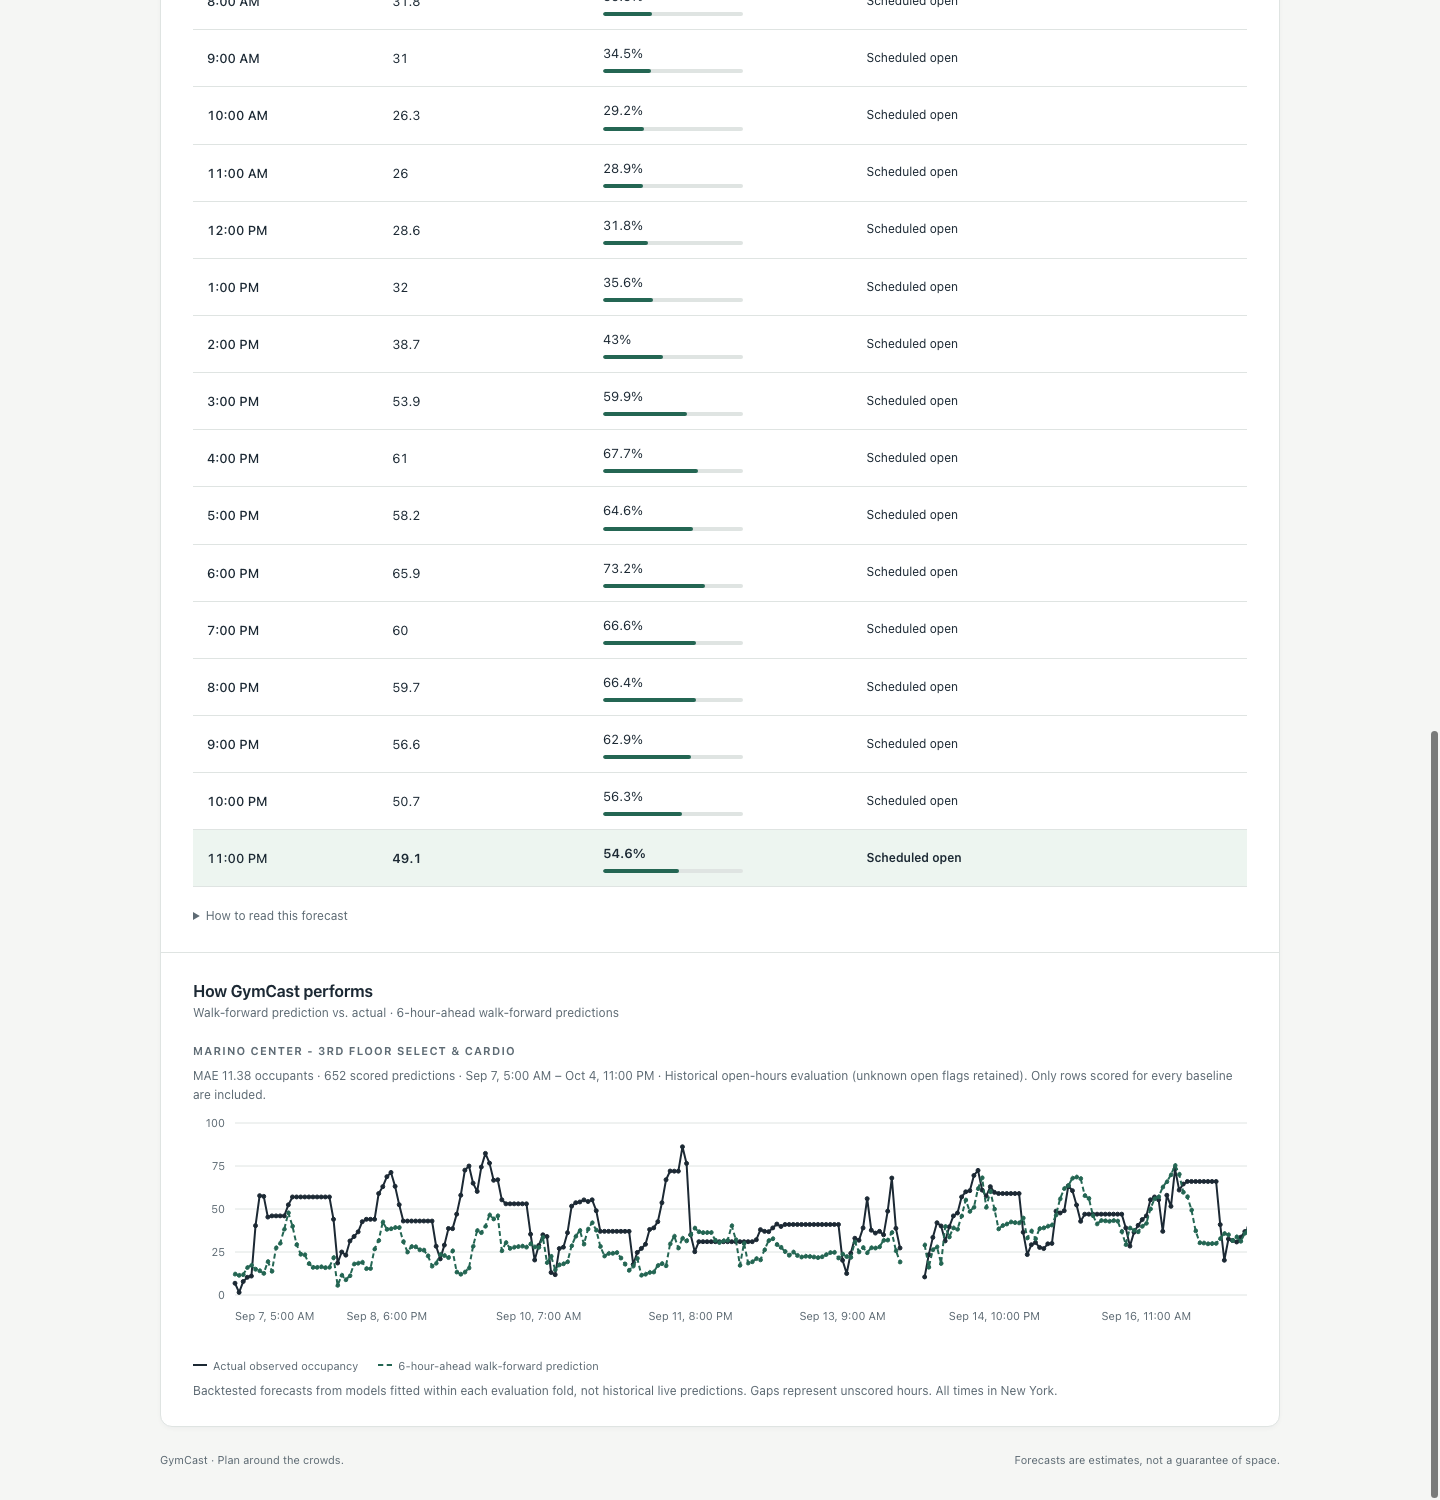
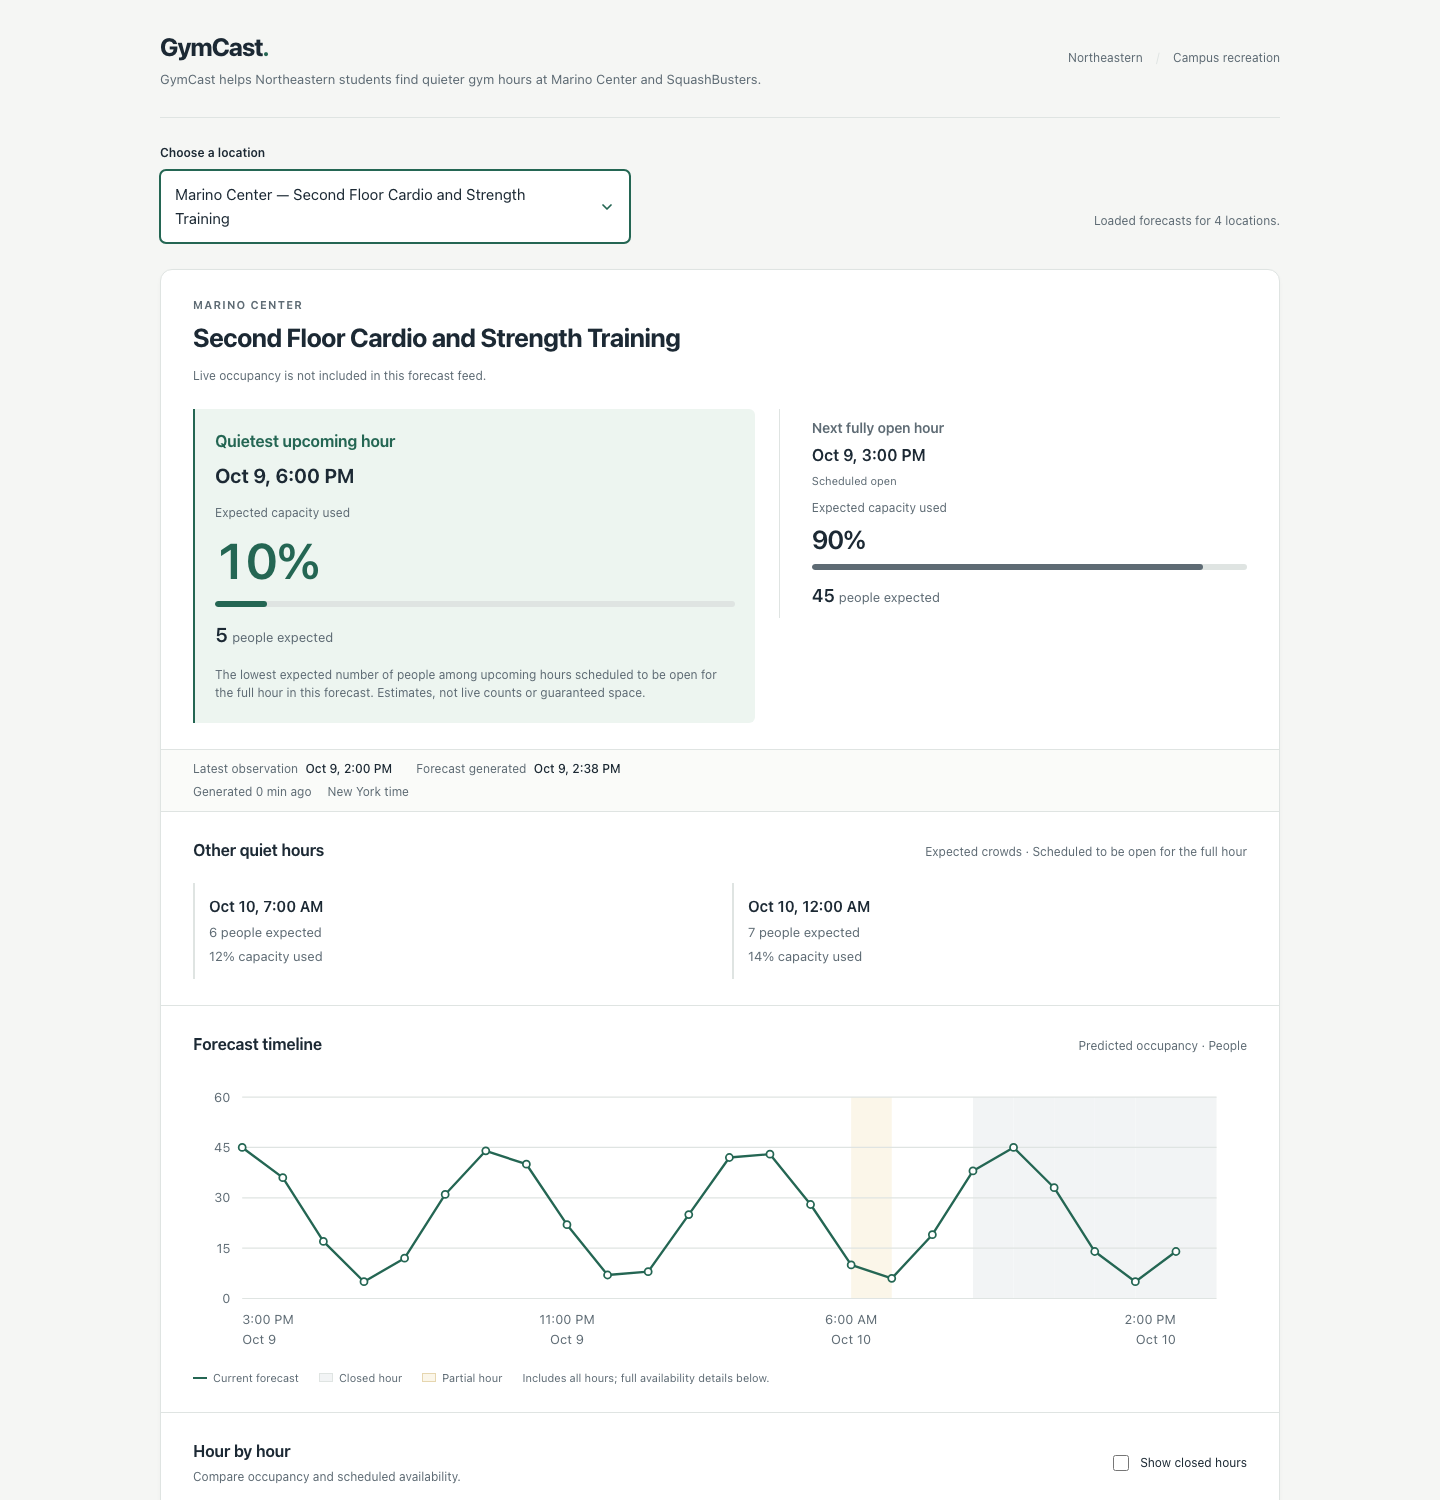
docs: refresh GymCast README branding and screenshots

diff --git a/README.md b/README.md
@@ -1,28 +1,52 @@
+<div align="center">
+
+<img src="web/favicon.svg" alt="GymCast occupancy-bars logo" width="76" />
+
 # GymCast
 
-**Spend less time waiting for equipment. Find a better time to work out.**
+**Find a quieter time to work out.**
 
-Heading to Marino after class, or waiting until later? GymCast forecasts hourly
-occupancy at Northeastern's Marino Center and SquashBusters locations so you can
-plan around the crowds. It combines recent counts, daily and weekly patterns,
-and activity at other campus locations to estimate the next 24 hours.
+Hourly occupancy forecasts for Northeastern University's Marino Center and SquashBusters.
 
-**117K+ leak-resistant walk-forward predictions · MAE: 7.57 occupants ·
-10.9% lower MAE than the strongest overall baseline**
+[**Live Website**](https://gymcast.zakbmorgan.dev) · [**Explore the pipeline**](docs/pipeline_walkthrough.md) · [**Run locally**](#run-it-locally)
 
-Evaluated across four weekly folds, scoring open hours at forecast horizons of
-1–24 hours. The strongest overall baseline was the same hour last week.
+</div>
 
-![GymCast desktop dashboard showing occupancy forecasts, quieter-time recommendations, and walk-forward model performance](docs/images/gymcast-desktop.png)
+## At a glance
 
-**Working today:** a forecasting pipeline, JSON API, and responsive deployed frontend
-with a location selector and hourly occupancy table. Availability labels distinguish
-closed, partial, unknown, and scheduled-open hours. Quietest-hour highlights use
-fully scheduled-open hours; current GoBoard evidence is shown when available.
+GymCast combines recent facility counts, daily and weekly patterns, and
+activity across campus locations to forecast occupancy for the next 24 hours.
+It recommends quieter **fully scheduled-open hours**, displays predicted people
+and capacity usage, and makes forecast freshness visible. Predictions are
+estimates—not live counts or guaranteed availability.
 
-[Live demo](https://gymcast.zakbmorgan.dev) · [Run it locally](#run-it-locally) ·
-[Understand the pipeline](docs/pipeline_walkthrough.md) ·
-[Architecture and current state](PROJECT.md)
+| Walk-forward predictions | Model MAE | Improvement vs. strongest overall baseline |
+|:--|:--|:--|
+| **117,791** | **7.57 people** | **10.9% lower MAE** |
+
+Results from four weekly evaluation folds across 1–24-hour horizons, scored
+on eligible open hours. The strongest overall baseline was the same hour last
+week (MAE 8.51). These are aggregate backtest results, not a guarantee of
+future accuracy.
+
+## Preview
+
+### Desktop
+
+![GymCast desktop dashboard with quietest-hour recommendations and occupancy timeline](docs/images/gymcast-desktop.png)
+
+### Mobile
+
+<p align="center">
+  <img src="docs/images/gymcast-mobile.png" alt="GymCast mobile dashboard showing occupancy recommendations" width="360" />
+</p>
+
+## Highlights
+
+- **Availability-aware recommendations:** highlights quiet upcoming hours only when scheduled fully open.
+- **Hourly forecasts:** predicted people and capacity usage across a 24-hour horizon.
+- **Transparent evaluation:** walk-forward backtests against four baselines, with historical actual-versus-predicted comparisons.
+- **Production deployment:** continuously collected observations, automated forecast refreshes every 15 minutes, Flask API, Gunicorn, and Nginx.
 
 ## What makes a forecast useful?
 
@@ -87,39 +111,6 @@ target-hour time and calendar features are known in advance. The saved bundle
 also preserves the category vocabulary and backend-specific input representation.
 The [pipeline walkthrough](docs/pipeline_walkthrough.md) explains each boundary
 with examples.
-
-## Interface
-
-GymCast is designed to make the forecast useful at a glance: choose a recreation
-area, see the next fully open hour, compare quieter upcoming times, and inspect
-the full 24-hour occupancy forecast.
-
-The live deployment runs on a DigitalOcean droplet behind Nginx and Gunicorn.
-GoBoard observations are collected continuously, and forecasts are regenerated
-automatically every 15 minutes. The frontend reads the latest prepared forecast
-through the Flask API.
-
-### Desktop
-
-<img
-  src="docs/images/gymcast-desktop.png"
-  alt="GymCast desktop dashboard with occupancy forecasts, facility availability, and walk-forward model performance"
-  width="100%"
-/>
-
-### Mobile
-
-<p align="center">
-  <img
-    src="docs/images/gymcast-mobile.png"
-    alt="GymCast responsive mobile interface"
-    width="390"
-  />
-</p>
-
-The interface includes availability-aware recommendations, capacity estimates,
-a responsive hourly forecast table, and historical walk-forward predictions
-compared with actual observed occupancy.
 
 ## Run it locally
 
